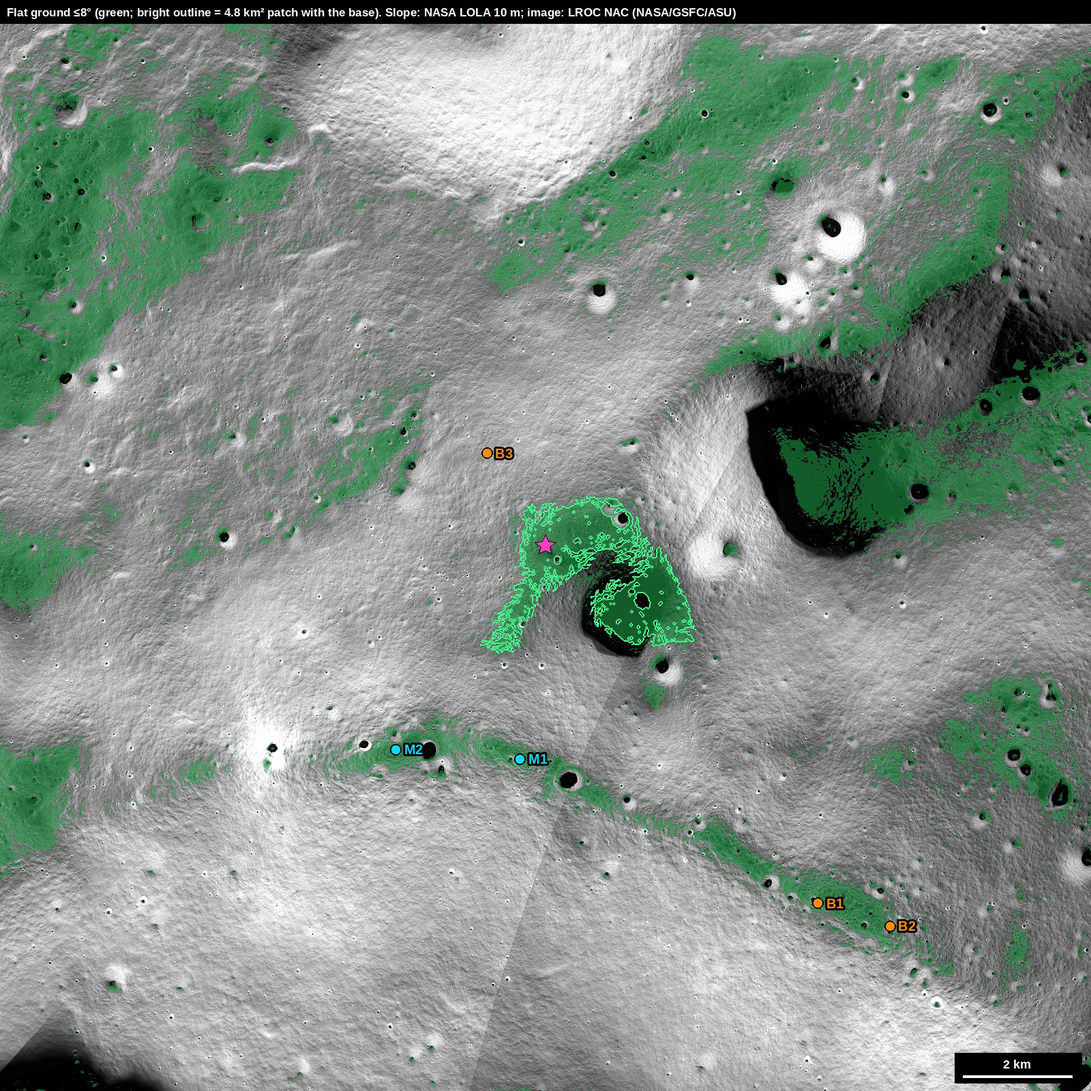
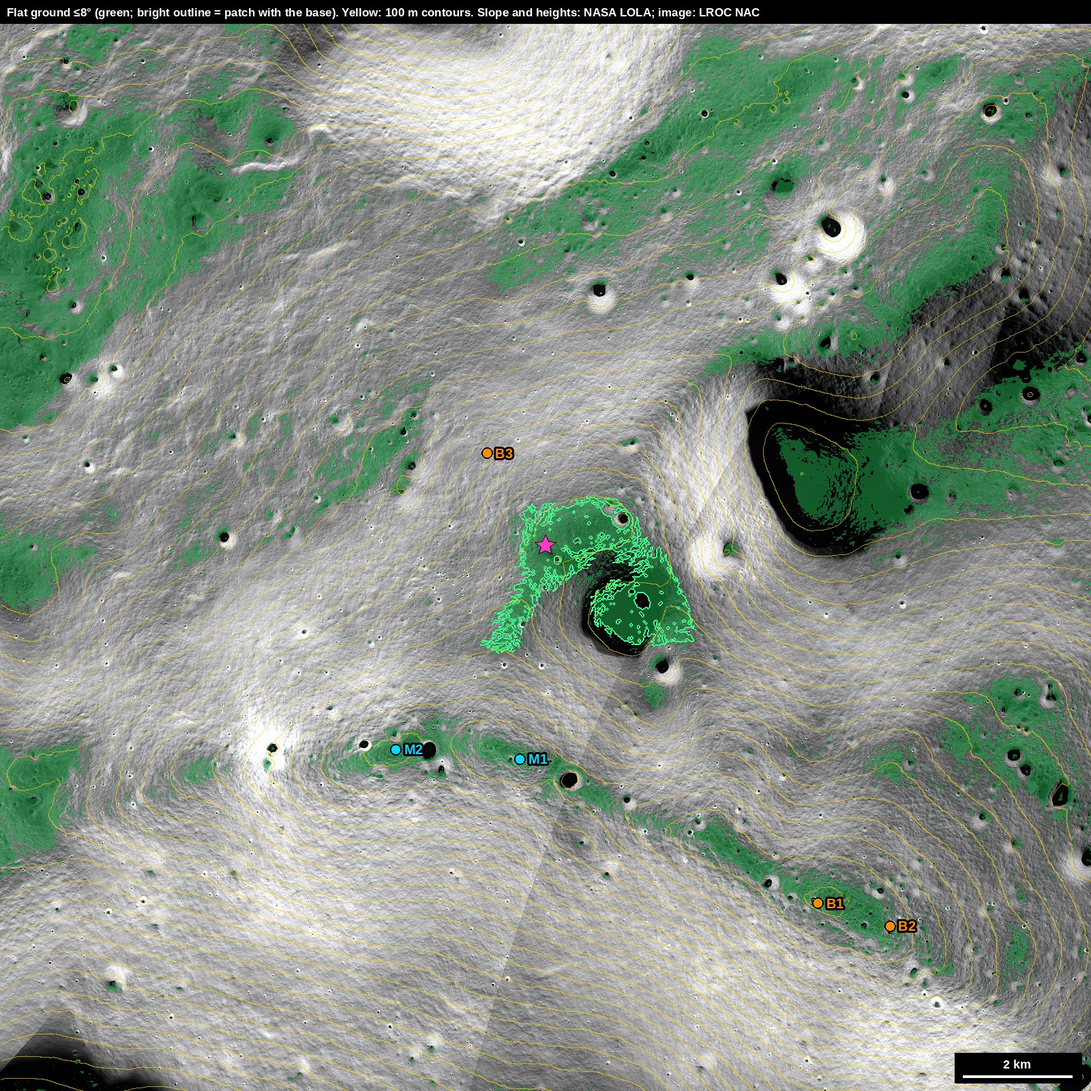
Add 100 m height contours to the 20 km base-area images
Claude-Session: https://claude.ai/code/session_01EMgvSv8Ki6A9jj7v8eiV3S

diff --git a/analysis/blender/make_texture.py b/analysis/blender/make_texture.py
@@ -14,7 +14,8 @@ a = np.load(os.path.join(NAC, 'full.npy')).astype('float32'); B = np.load(os.pat
 v = a[a > 0]; lo, hi = np.percentile(v, 0.5), np.percentile(v, 99.7)
 g = (np.clip((a - lo) / (hi - lo), 0, 1) ** 0.85 * 255).astype('uint8')
 im = Image.fromarray(g)
-im.save(os.path.join(BO, 'texture_2m.jpg'), quality=90); im.resize((4096, 4096), Image.LANCZOS).save(os.path.join(BO, 'texture_4k.jpg'), quality=92)
+if not os.environ.get('SITE_ONLY'):
+    im.save(os.path.join(BO, 'texture_2m.jpg'), quality=90); im.resize((4096, 4096), Image.LANCZOS).save(os.path.join(BO, 'texture_4k.jpg'), quality=92)
 C = lonlat2m(-88.4262, -63.30); HALF = (B[2] - B[0]) / 2; F = lambda z: ImageFont.truetype(FB, int(z))
 def markers(img, px_per_m, x0, y1, star=True):
     dr = ImageDraw.Draw(img); k = img.width / 1600
@@ -37,7 +38,14 @@ def bar(img, px_per_m, metres, label, title):
     dr.rectangle((0, 0, img.width, 34 * k), fill='black'); dr.text((10 * k, 8 * k), title, font=F(17 * k), fill='white')
 # site image 1: all-sun view, 20 km
 S = 1600; base = Image.fromarray(g).resize((S, S), Image.LANCZOS).convert('RGB'); ppm = S / (2 * HALF)
-markers(base, ppm, B[0], B[3]); bar(base, ppm, 2000, '2 km', 'All-sun view, 20 × 20 km around the primary base: LROC NAC maximum-pixel mosaic, 1 m/px (NASA/GSFC/ASU)')
+# 100 m height contours from NASA LOLA (10 m DEM), drawn on both site images
+dem = np.nan_to_num(read('LDEM_83S_10MPP_ADJ', tuple(B), 10)).astype('float32')
+zz = np.array(Image.fromarray(dem, mode='F').resize((S, S), Image.BILINEAR)); lv = np.floor(zz / 100.)
+CT = (lv != np.roll(lv, 1, 0)) | (lv != np.roll(lv, 1, 1)); CT[0, :] = CT[:, 0] = False
+def contours(img):
+    a_ = np.array(img).astype('float32'); a_[CT] = a_[CT] * 0.35 + np.array([255, 215, 0]) * 0.65; return Image.fromarray(a_.astype('uint8'))
+base = contours(base)
+markers(base, ppm, B[0], B[3]); bar(base, ppm, 2000, '2 km', 'All-sun view, 20 × 20 km around the primary base. LROC NAC maximum-pixel mosaic (NASA/GSFC/ASU). Yellow: 100 m height contours (LOLA)')
 base.save(os.path.join(SA, 'primary-base-allsun.jpg'), quality=88)
 # site image 2: flat-ground overlay, 20 km
 sl = read('LDSM_83S_10MPP_ADJ', tuple(B), 10); flat = sl <= 8
@@ -47,7 +55,7 @@ pa = np.array(Image.fromarray((patch * 255).astype('uint8')).resize((S, S), Imag
 rgb = np.array(Image.fromarray(g).resize((S, S), Image.LANCZOS).convert('RGB')).astype('float32')
 rgb = np.where(fl[..., None], rgb * 0.55 + np.array([40, 200, 90]) * 0.45, rgb)
 e = pa & ~ndimage.binary_erosion(pa, iterations=2); rgb[e] = (60, 255, 140)
-ov = Image.fromarray(rgb.clip(0, 255).astype('uint8')); markers(ov, ppm, B[0], B[3])
-bar(ov, ppm, 2000, '2 km', 'Flat ground ≤8° (green; bright outline = 4.8 km² patch with the base). Slope: NASA LOLA 10 m; image: LROC NAC (NASA/GSFC/ASU)')
+ov = contours(Image.fromarray(rgb.clip(0, 255).astype('uint8'))); markers(ov, ppm, B[0], B[3])
+bar(ov, ppm, 2000, '2 km', 'Flat ground ≤8° (green; bright outline = patch with the base). Yellow: 100 m contours. Slope and heights: NASA LOLA; image: LROC NAC')
 ov.save(os.path.join(SA, 'primary-base-allsun-flat.jpg'), quality=88)
 print('ok', N, 'lo %.0f hi %.0f' % (lo, hi), 'black %.1f%%' % ((a == 0).mean() * 100))

diff --git a/_milestones/m00-site-selection.md b/_milestones/m00-site-selection.md
@@ -295,7 +295,7 @@ LROC's maximum-pixel mosaic keeps each spot at its brightest across thousands of
 ![All-sun view of the 20 by 20 km area around the primary base, LROC NAC maximum-pixel mosaic]({{ '/assets/sites/primary-base-allsun.jpg' | relative_url }})
 ![The same view with flat ground of 8 degrees or less in green and the 4.8 square km patch around the base outlined]({{ '/assets/sites/primary-base-allsun-flat.jpg' | relative_url }})
 
-*Left: all-sun view, 20 × 20 km. Right: ground of 8° or less in green (NASA LOLA slope, 10 m), with the 4.8 km² patch around the base outlined. Star: base. Orange: base towers. Cyan: mine towers. Images credit NASA/GSFC/Arizona State University.*
+*Left: all-sun view, 20 × 20 km. Right: ground of 8° or less in green (NASA LOLA slope, 10 m), with the 4.8 km² patch around the base outlined. Yellow lines: 100 m height contours (NASA LOLA). Star: base. Orange: base towers. Cyan: mine towers. Images credit NASA/GSFC/Arizona State University.*
 
 #### Sun and shadow at the base (ESTIMATE)
 
